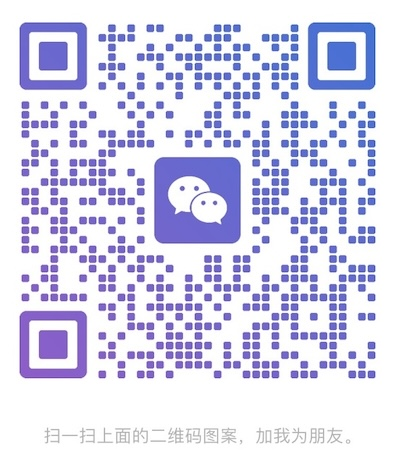
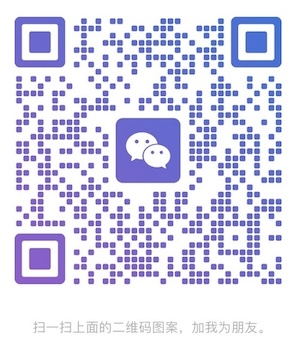
update

diff --git a/docs/carpool-community.md b/docs/carpool-community.md
@@ -3,5 +3,5 @@
 扫码加入拼车微信群，快速稳定使用 Claude Code：
 ![image](./images/pinche-group.jpg)
 
-也可以添加群主微信，拉进群：
+也可以添加群主微信，打招呼内容是cc拼车，拉进群：
 ![image](./images/xiaohao.jpg)

diff --git a/docs/claude-code-router-community.md b/docs/claude-code-router-community.md
@@ -3,5 +3,5 @@
 扫码加入 Claude Code Router 微信交流群：
 ![image](./images/ccr-group.jpg)
 
-也可以添加群主微信，拉进群：
+也可以添加群主微信，打招呼内容是 ccr ，拉进群：
 ![image](./images/xiaohao.jpg)
